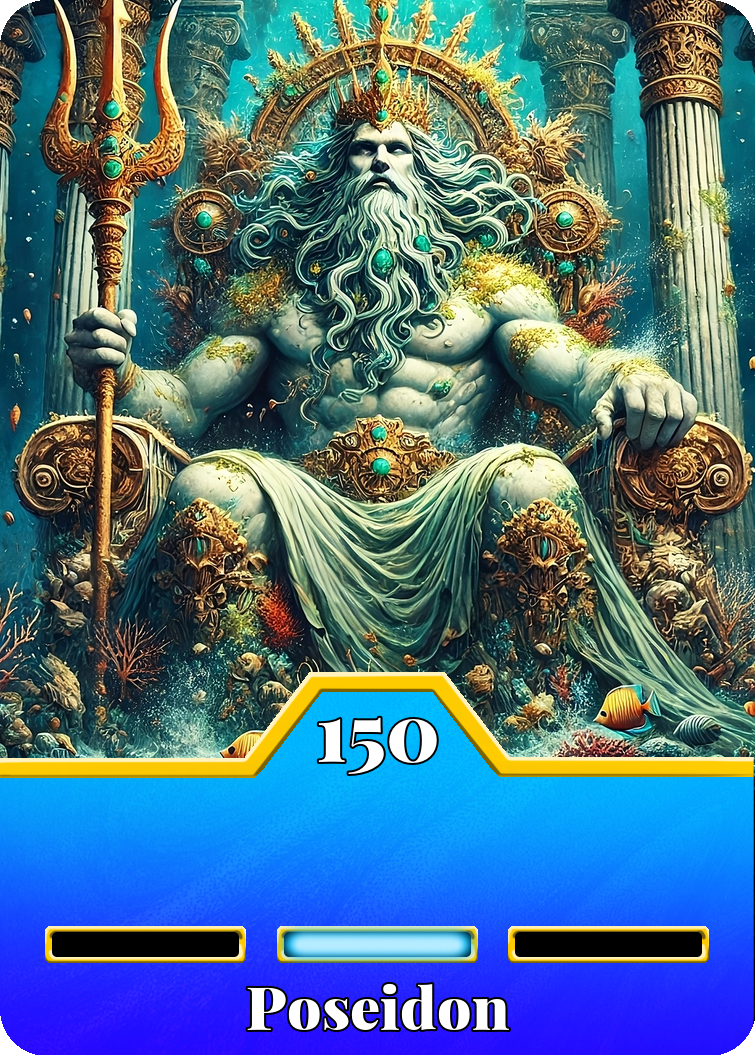
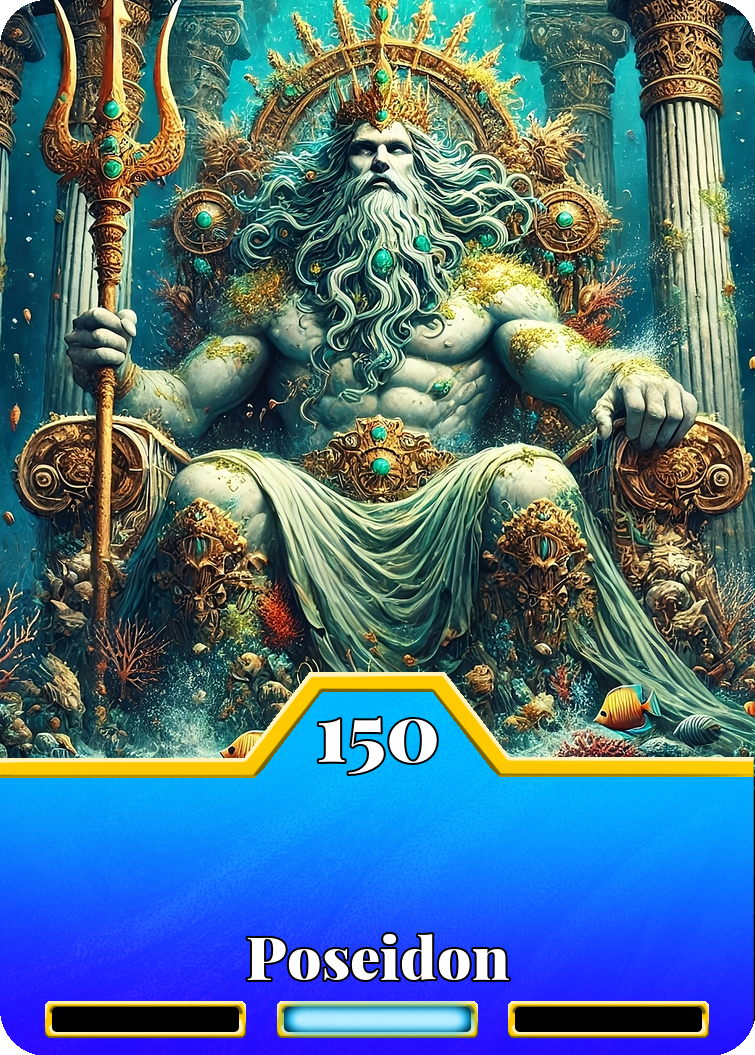
New positioning

Changed region(s): [[0.0609, 0.8796, 0.9444, 1.0]]

diff --git a/GenerateCards.py b/GenerateCards.py
@@ -24,7 +24,7 @@ class CardCreator:
         self.y_offset_between_effects = 6
         self.stroke_width = 2
         self.corner_radius = 46
-        self.slot_y = 1050  # 980
+        self.slot_y = 1055
         self.slot3_x = self.image_width * 3 / 4 + 25
         self.slot2_x = self.image_width / 2
         self.slot1_x = self.image_width / 4 - 25
@@ -156,7 +156,7 @@ class CardCreator:
         i = 0
         while name_width >= self.max_description_width:
             i += 1
-            # self.name_y += 1
+            self.name_y += 1
             fnt_name = ImageFont.truetype(
                 self.current_name_font, self.name_font_size - i
             )
